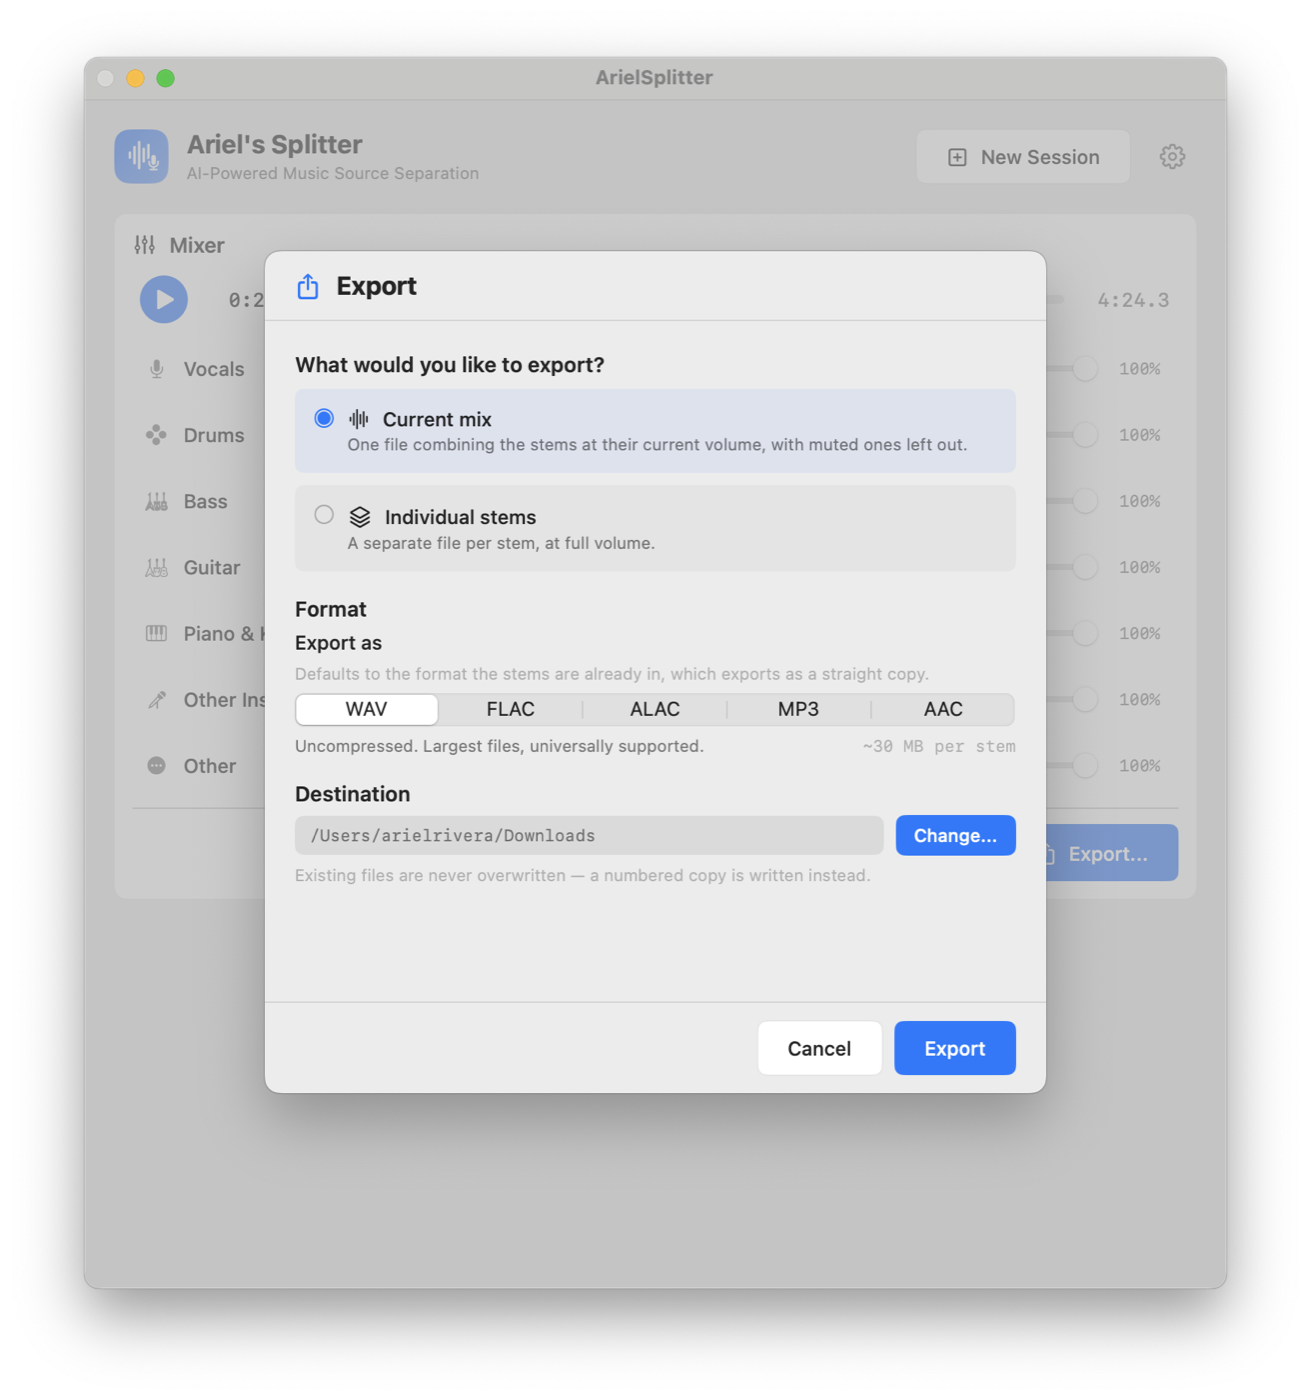
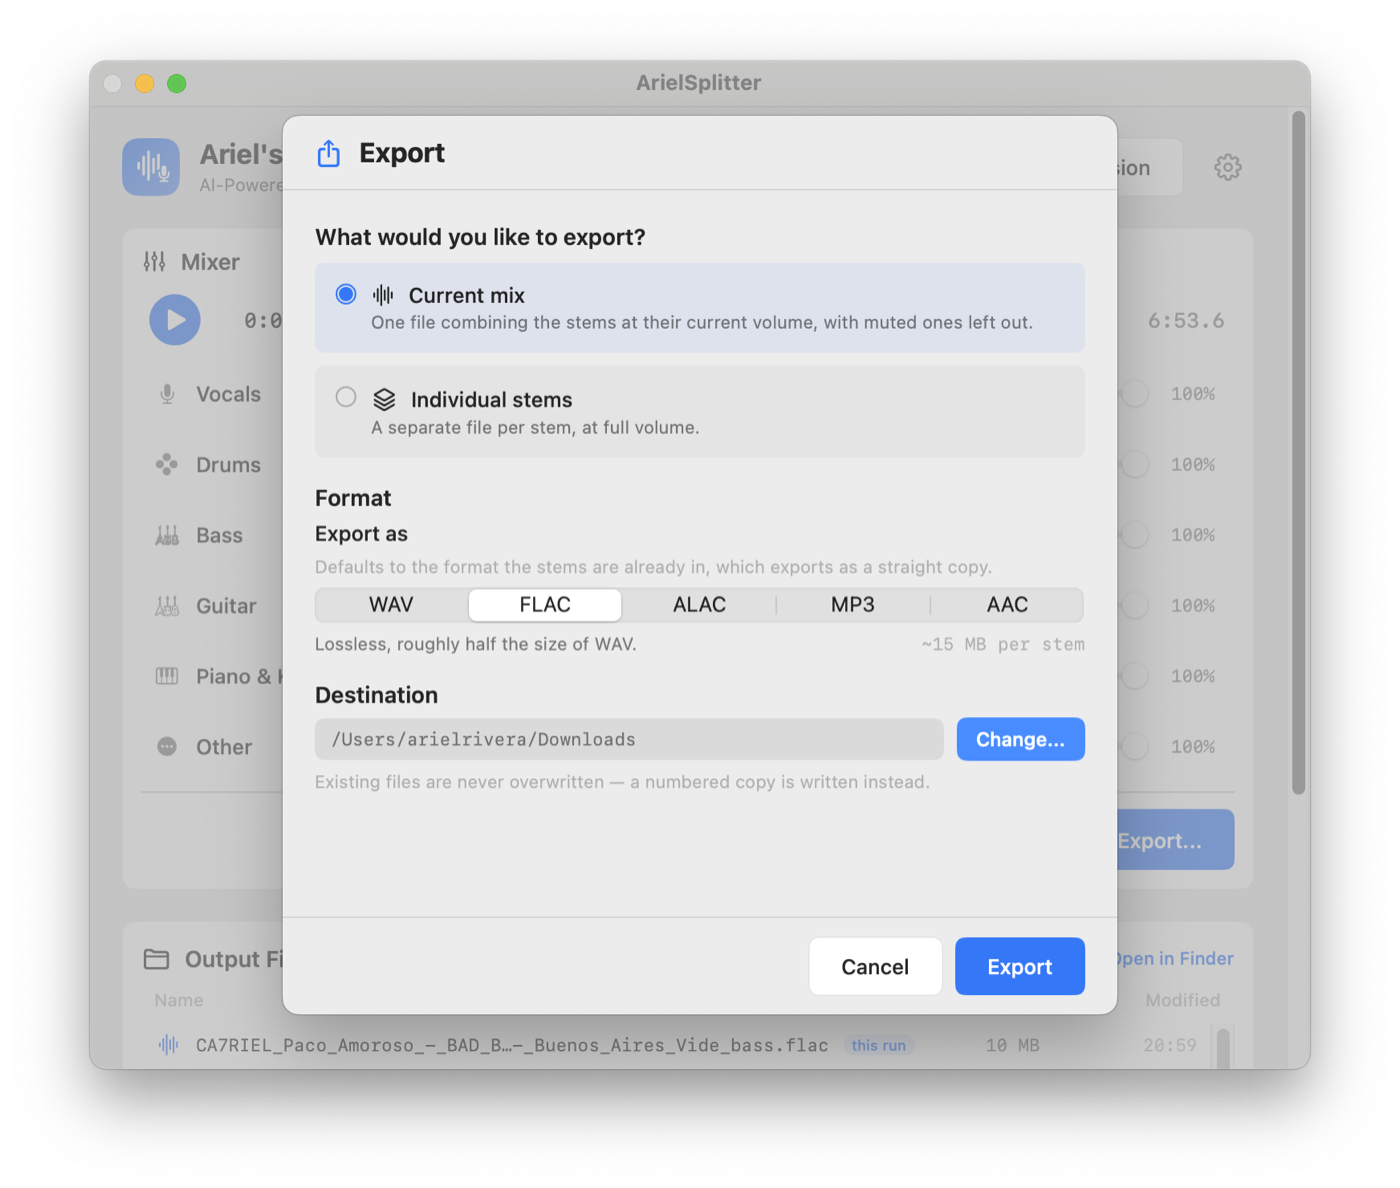
chore: remove the auto-test scaffolding, refresh the screenshots
The Debug menu loaded a hard-coded ~/Downloads/samplesong.x and started a
separation. That file does not exist, so the menu item could only ever fail with
"File not found", and both READMEs documented it as a user-facing quick test
without saying to create it. A second copy of the same trick lived in
ContentView.onAppear, starting a separation on launch whenever
/tmp/ariel_splitter_autotest existed.

Both are gone, along with the README sections. Nothing is lost: the drop zone
already takes any file, link or paste, so loading a track and separating it is
one drag away.

Also replace three screenshots taken before the Other Instruments stem was
removed. They showed seven stem rows including a category that no longer exists;
the new ones show six, FLAC output, and the output file listing. The mixer
caption said "seven separated stems".

diff --git a/Ariel's Splitter/Sources/ArielSplitter/Views/ContentView.swift b/Ariel's Splitter/Sources/ArielSplitter/Views/ContentView.swift
@@ -105,18 +105,6 @@ struct ContentView: View {
             ExportDialogView()
                 .environmentObject(appViewModel)
         }
-        .onAppear {
-            let triggerURL = URL(fileURLWithPath: "/tmp/ariel_splitter_autotest")
-            guard FileManager.default.fileExists(atPath: triggerURL.path) else { return }
-            let testURL = URL(fileURLWithPath: NSHomeDirectory())
-                .appendingPathComponent("Downloads/samplesong.x")
-            Task { @MainActor in
-                try? await Task.sleep(nanoseconds: 2_000_000_000)
-                appViewModel.loadAudioFile(url: testURL)
-                try? await Task.sleep(nanoseconds: 3_000_000_000)
-                appViewModel.startSeparation()
-            }
-        }
     }
 }
 

diff --git a/Ariel's Splitter/Sources/ArielSplitter/App/ArielSplitterApp.swift b/Ariel's Splitter/Sources/ArielSplitter/App/ArielSplitterApp.swift
@@ -58,17 +58,6 @@ struct ArielSplitterApp: App {
                 .keyboardShortcut("r", modifiers: .command)
                 .disabled(appViewModel.separationState != .completed)
             }
-            CommandMenu("Debug") {
-                Button("Run Auto Test") {
-                    let testURL = URL(fileURLWithPath: NSHomeDirectory())
-                        .appendingPathComponent("Downloads/samplesong.x")
-                    appViewModel.loadAudioFile(url: testURL)
-                    DispatchQueue.main.asyncAfter(deadline: .now() + 3) {
-                        appViewModel.startSeparation()
-                    }
-                }
-                .keyboardShortcut("t", modifiers: [.command, .option])
-            }
         }
     }
 }

diff --git a/README.md b/README.md
@@ -26,7 +26,7 @@ suggestion you can accept or dismiss.
 **Mixer** — after separation the window becomes the mixer: solo, mute, and set
 levels per stem, then export.
 
-![Mixer with seven separated stems](docs/screenshots/mixer.png)
+![Mixer with six separated stems, above the output file listing](docs/screenshots/mixer.png)
 
 **Export** — one dialog covers the whole job: the current mix or individual
 stems, the output format, and where it goes.
@@ -100,18 +100,6 @@ cd "Ariel's Splitter" && swift build
 > `.venv/` or `env/` near the project and rejects any interpreter missing a
 > required module. A global `pip install` is not reliably picked up, because a
 > GUI-launched app does not inherit your shell's `PATH`.
-
-## Quick test
-
-Place a test audio/video file at:
-
-```text
-~/Downloads/samplesong.x
-```
-
-Then launch the app and choose **Debug → Run Auto Test** (or press `Cmd + Option + T`).
-
-> Replace `samplesong.x` with any supported audio or video file.
 
 ## Project structure
 

diff --git a/README_Detailed.md b/README_Detailed.md
@@ -291,16 +291,6 @@ The app automatically picks the model based on the selected stems:
 - `htdemucs` — used for the classic 4-stem separation: vocals, drums, bass, other
 - `htdemucs_6s` — used when guitar, piano, or other instruments are requested
 
-## Auto test
-
-A built-in debug menu item loads a hard-coded test file and starts separation automatically:
-
-- Menu: **Debug → Run Auto Test**
-- Shortcut: `Cmd + Option + T`
-- Expected test file: `~/Downloads/samplesong.x`
-
-Replace `samplesong.x` with any supported audio or video file. This is intended for development and CI smoke tests.
-
 ## Output files
 
 Each separation run produces one 44.1 kHz stereo file per selected stem in the
